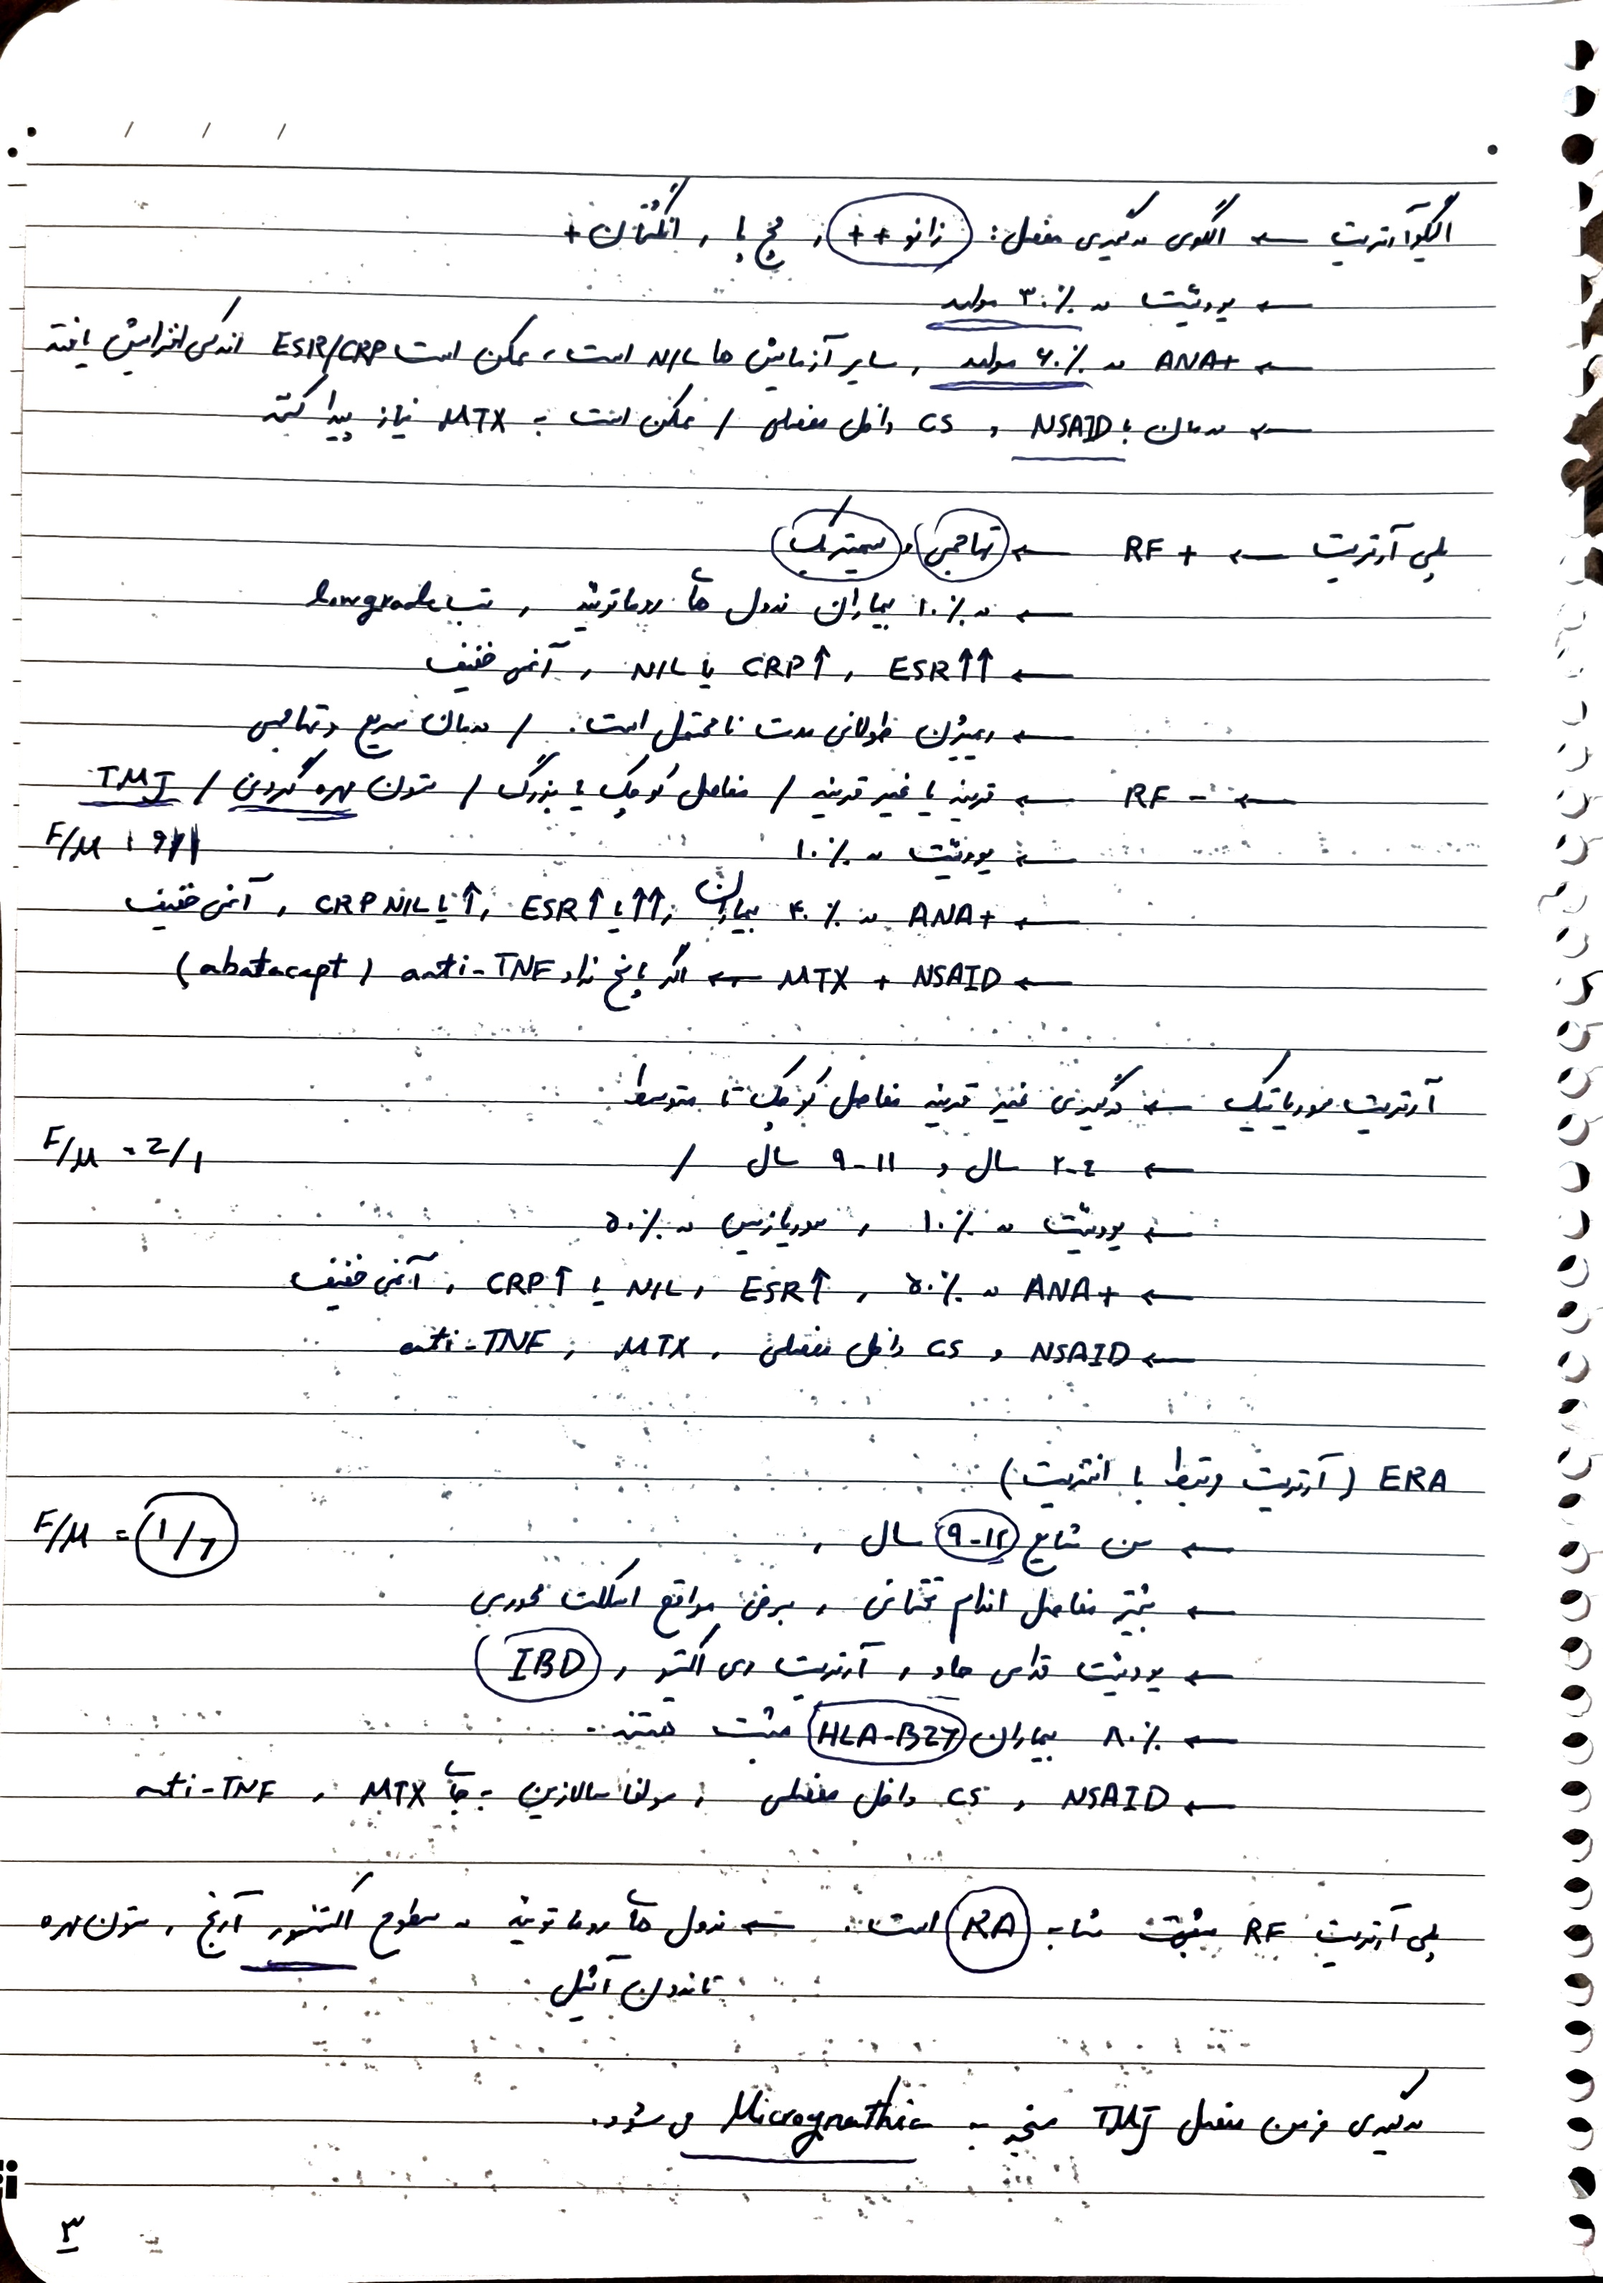
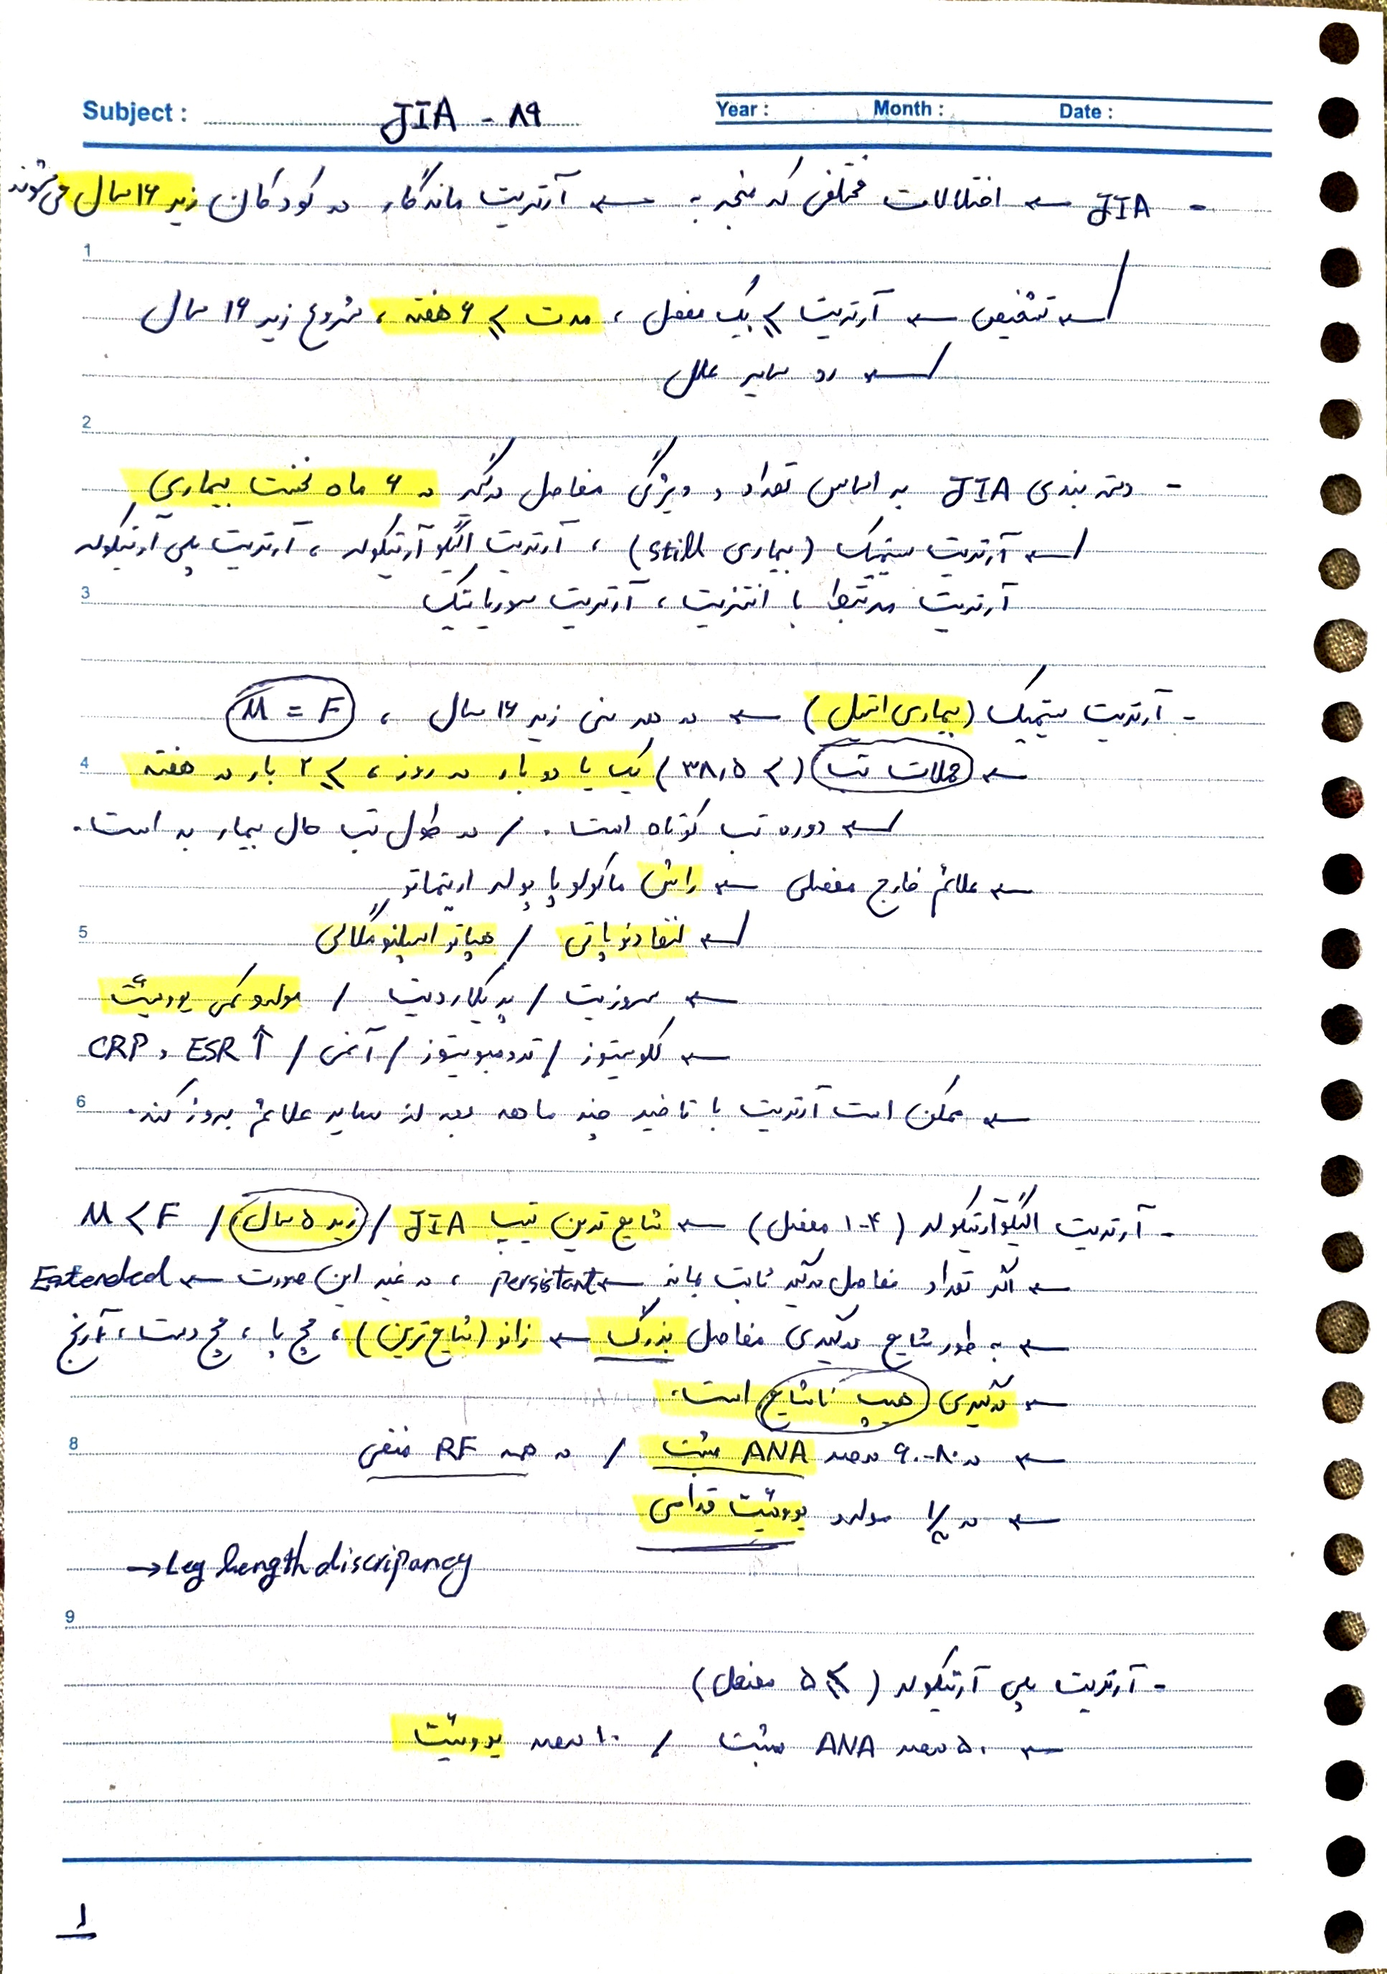
Add JIA

Changed region(s): [[0.0, 0.0, 1.0, 1.0], [0.7756, 0.4688, 0.8997, 0.5], [0.0, 0.0, 0.031, 0.0312]]

diff --git a/pediatrics/ped-rheumatology/JIA/JIA.tex b/pediatrics/ped-rheumatology/JIA/JIA.tex
@@ -1,12 +1,16 @@
 % !TeX program = xelatex
 % UTF-8. Standalone document; compile from this directory or the repository root.
-% Source: Google Drive / notebook / JIA, in ascending source-filename order.
+% Existing six-page transcription retained from the earlier Google Drive source set.
 % pic01.jpg = 20261016_212038277.jpg (1x6B7dsRehpmYGTeYL1aLD8J2aYP8lcV0)
 % pic02.jpg = 20261016_212046217.jpg (1glYNOk7ottTw6Ej2IAZVMZRwrOj-eB87)
-% pic03.jpg = 20261016_212053063.jpg (1z_0UpSsRHw0vrpzKEZlr1EwW8E5g4LU0)
-% pic04.jpg = 20261016_212101490.jpg (1iVh1lV3yWl-6HVbHM5Aw7GyFgEiTWAa2)
+% Original transcription page 3: 20261016_212053063.jpg (1z_0UpSsRHw0vrpzKEZlr1EwW8E5g4LU0)
+% Original transcription page 4: 20261016_212101490.jpg (1iVh1lV3yWl-6HVbHM5Aw7GyFgEiTWAa2)
 % pic05.jpg = 20261016_212108170.jpg (1V2w1zbVXoqqb0iN1VErXsSoAwigCY9iY)
 % pic06.jpg = 20261016_212113932.jpg (14GBDSH9TcDvFrvt4FOp2lyIsdVToHrpu)
+% Added two-page summary: Google Drive / Notebook / JIA.
+% pic03.jpg = 20261018_192809528.jpg (1pjQgdJDESkfhVugMo1veFLs6VpYCkVWm)
+% pic04.jpg = 20261018_192814024.jpg (1NftOpJpTbjZg4j3UplDPIRTw70ZxlBrD)
+% These replace the previously occupied pic03/pic04 filenames as requested.
 \documentclass[11pt,a4paper]{article}
 \usepackage[margin=20mm]{geometry}
 \usepackage{amsmath,amssymb}
@@ -287,7 +291,96 @@
 \end{itemize}
 
 \clearpage
-\section*{تصاویر اصلی}
+\section*{خلاصهٔ تکمیلی: \en{JIA -- 89}}
+\pagehead{تکمیلی ۱ (تصویر ۳)}
+% Stationery labels: Subject:, Year:, Month:, Date:; ruled-line numbers 1--9.
+% Handwritten footer: 1. Blank date fields are retained below.
+\noindent\en{Subject: JIA -- 89}\par
+\en{Year: \ldots\quad Month: \ldots\quad Date: \ldots}
+
+\subsection*{تعریف، تشخیص و دستهبندی}
+\begin{itemize}
+\item \en{JIA}: اختلالات مختلفی که منجر به آرتریت ماندگار در کودکان \textbf{زیر ۱۶ سال} میشوند.
+\item تشخیص: آرتریت \en{$\geq 1$} مفصل، \textbf{مدت \en{$\geq 6$} هفته}، شروع زیر ۱۶ سال؛ رد سایر علل.
+\item دستهبندی \en{JIA} بر اساس تعداد و ویژگی مفاصل درگیر \textbf{در ۶ ماه نخست بیماری}:
+آرتریت سیستمیک (بیماری \en{Still})، آرتریت الیگوآرتیکولر، آرتریت پلیآرتیکولر، آرتریت مرتبط با انتزیت، آرتریت پسوریاتیک.
+\end{itemize}
+
+\subsection*{آرتریت سیستمیک (بیماری استیل)}
+\begin{itemize}
+\item در هر سنی زیر ۱۶ سال؛ \en{$M=F$}.
+\item \textbf{حملات تب} (\en{$>38.5$}): \textbf{یک یا دو بار در روز، \en{$\geq 2$} بار در هفته}.
+\item دورهٔ تب کوتاه است؛ در طول تب حال بیمار بد است.
+\item علائم خارج مفصلی: \textbf{راش} ماکولوپاپولر اریتماتو؛ \textbf{لنفادنوپاتی}؛ \textbf{هپاتواسپلنومگالی}.
+\item سروزیت؛ پریکاردیت؛ \textbf{میوکاردیت}.
+\item لکوسیتوز؛ ترومبوسیتوز؛ آنمی؛ \en{ESR\up} و \en{CRP\up}.
+\item ممکن است آرتریت با تأخیر چند ماهه بعد از سایر علائم بروز کند.
+\end{itemize}
+
+\subsection*{آرتریت الیگوآرتیکولر (\en{1--4} مفصل)}
+\begin{itemize}
+\item \textbf{شایعترین تیپ \en{JIA}}؛ \textbf{زیر ۵ سال}؛ \en{$M<F$}.
+\item اگر تعداد مفاصل درگیر ثابت باشد: \en{Persistent}؛ در غیر این صورت: \en{Extended}.
+\item بهطور شایع درگیری مفاصل \textbf{بزرگ}: \textbf{زانو (شایعترین)}، مچ پا، مچ دست، آرنج.
+\item \textbf{درگیری هیپ ناشایع است}.
+\item در \rng{80}{90}\% موارد \textbf{\en{ANA} مثبت}؛ در همه \en{RF} منفی.
+\item در \en{$1/3$} موارد \textbf{یووئیت قدامی}.
+\item \en{Leg length discrepancy}.
+\end{itemize}
+
+\subsection*{آرتریت پلیآرتیکولر (\en{$\geq 5$} مفصل)}
+\begin{itemize}
+\item ۵۰\% \en{ANA} مثبت؛ ۱۰\% \textbf{یووئیت}.
+\end{itemize}
+
+\clearpage
+\pagehead{تکمیلی ۲ (تصویر ۴)}
+% Stationery labels: Subject:, Year:, Month:, Date:; ruled-line numbers 1--9.
+% Handwritten footer: 2.
+\noindent\en{Subject: JIA -- 89}\par
+\en{Year: \ldots\quad Month: \ldots\quad Date: \ldots}
+
+\subsection*{آرتریت پلیآرتیکولر: فرم \en{RF} منفی}
+\begin{itemize}
+\item دوم شایع؛ \textbf{\rng{2}{4} سال و \rng{9}{12} سال}؛ \en{$M<F$}.
+\item درگیری سیمتریکال مفاصل بزرگ و کوچک دست و پا، \en{TMJ}، سرویکال اسپاین.
+\end{itemize}
+
+\subsection*{آرتریت پلیآرتیکولر: فرم \en{RF} مثبت}
+\begin{itemize}
+\item \textbf{اوایل نوجوانی}؛ \en{$M<F$}.
+\item تهاجمی است و تا بزرگسالی طول میکشد و مانند \en{RA} میباشد.
+\item به سرعت تخریب مفصلی میدهد؛ درگیری قرینهٔ مفاصل بزرگ و کوچک.
+\item ندولهای روماتوئید در آرنج و زانو.
+\end{itemize}
+
+\subsection*{آرتریت مرتبط با انتزیت}
+\begin{itemize}
+\item \textbf{نوجوانی}؛ \en{$F<M$}؛ \en{RF} منفی است.
+\item مفاصل حامل وزن، خصوصاً هیپ؛ انتزیت آشیل؛ ساکروایلیاک.
+\item میتواند در بزرگسالی تبدیل به \en{AS} شود؛ \textbf{مرتبط با \en{HLA-B27}}.
+\item درگیری غیرقرینهٔ مفاصل اندام تحتانی؛ \textbf{یووئیت و آیریت}.
+\end{itemize}
+
+\subsection*{آرتریت پسوریاتیک}
+\begin{itemize}
+\item \rng{2}{4} سال و \rng{9}{11} سال؛ \en{$M<F$}.
+\item آرتریت + پسوریازیس، یا آرتریت + حداقل ۲ مورد از: داکتیلیت، پیتینگ ناخنها، سابقهٔ خانوادگی پسوریازیس.
+\item درگیری مفاصل کوچک یا بزرگ (معمولاً زانو، مفاصل دست و پا).
+\item ضایعات اریتماتو و \en{Scaly} در نواحی پستاوریکولار، پریآمبیلیکال و سطوح اکستانسور آرنج و زانو.
+\end{itemize}
+
+\subsection*{درمان}
+\begin{itemize}
+\item خط اول: \en{NSAID}، کورتیکواستروئید داخل مفصلی.
+\item خط دوم: \en{DMARD}؛ \textbf{متوترکسات، سولفاسالازین، لفلونوماید}.
+\item کورتیکواستروئید.
+\item بیولوژیک: \textbf{\en{anti-TNF}} برای \textbf{پلیآرتیکولار}؛ اتانرسپت، اینفلیکسیمب، آدالیمومب.
+\item \en{anti-IL-1} (آناکینرا)، \en{anti-IL-6} برای سیستمیک؛ توسیلیزومب (\en{anti-IL-6}).
+\end{itemize}
+
+\clearpage
+\section*{تصاویر منبع}
 \IfFileExists{images/pic01.jpg}{\def\imagebase{images/}}{%
 \def\imagebase{pediatrics/ped-rheumatology/JIA/images/}}
 \begin{center}
@@ -301,12 +394,12 @@
 \end{center}
 \clearpage
 \begin{center}
-\textbf{تصویر 3}\par
+\textbf{تصویر ۳: خلاصهٔ تکمیلی، صفحهٔ ۱}\par
 \includegraphics[width=\linewidth,height=0.88\textheight,keepaspectratio]{\imagebase pic03.jpg}
 \end{center}
 \clearpage
 \begin{center}
-\textbf{تصویر 4}\par
+\textbf{تصویر ۴: خلاصهٔ تکمیلی، صفحهٔ ۲}\par
 \includegraphics[width=\linewidth,height=0.88\textheight,keepaspectratio]{\imagebase pic04.jpg}
 \end{center}
 \clearpage
